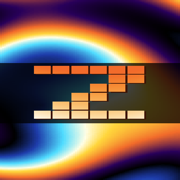
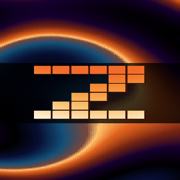
Darker palette, a loading state (LOADING n% until the sound plays, a downloaded bar), brighter title and scroller

diff --git a/index.html b/index.html
@@ -39,7 +39,7 @@
 // up with hard pixels. Parts: plasma, tunnel, vector balls, rotozoomer, switching every 16 s with a flash; a copper-filled pixel
 // logo, a 5x7 bitmap sine scroller. The kick (from the Web Audio analyser) drives flashes, speed and zoom. Tap anywhere: play / pause.
 const a = document.getElementById('a'), tap = document.getElementById('tap'), cv = document.getElementById('c'), g = cv.getContext('2d');
-const Q = new URLSearchParams(location.search), PREVIEW = Q.has('preview'), THUMB = Q.has('thumb'), ICON = Q.has('icon'), TOFF = +(Q.get('t') || 0);
+const Q = new URLSearchParams(location.search), LOADQ = Q.has('loading'), PREVIEW = Q.has('preview'), THUMB = Q.has('thumb'), ICON = Q.has('icon'), TOFF = +(Q.get('t') || 0);
 if (THUMB || ICON) document.getElementById('dl').style.display = 'none';   // still frames for the link preview and the icon
 const calm = window.matchMedia && matchMedia('(prefers-reduced-motion: reduce)').matches;
 let LW = 320, LH = 200, buf, bg, img, px, tunA, tunD, W, H, dpr;
@@ -58,7 +58,8 @@ const rgb = (r, gg, b) => (255 << 24) | ((b & 255) << 16) | ((gg & 255) << 8) | 
 const SIN = new Float32Array(1024); for (let i = 0; i < 1024; i++) SIN[i] = Math.sin(i / 1024 * Math.PI * 2);
 const sn = v => SIN[(v * 162.97 | 0) & 1023];   // fast sine (radians)
 // palette: black, deep violet, the ZUPAKOLLIDA orange, yellow, white, cyan, blue, back to black (256 colours, cycled)
-const PAL = new Uint32Array(256), STOPS = [[0, 0, 0, 0], [40, 40, 0, 90], [90, 242, 107, 43], [130, 255, 214, 60], [150, 255, 255, 230], [180, 80, 220, 255], [220, 30, 60, 170], [256, 0, 0, 0]];
+// darker: mostly black and deep violet, the orange and the white only as highlights
+const PAL = new Uint32Array(256), STOPS = [[0, 0, 0, 0], [55, 22, 0, 48], [95, 120, 38, 18], [125, 226, 100, 30], [140, 255, 196, 110], [150, 120, 70, 60], [180, 20, 80, 120], [220, 8, 14, 50], [256, 0, 0, 0]];
 for (let i = 0; i < 256; i++) { let s = 0; while (STOPS[s + 1][0] <= i) s++; const A = STOPS[s], B = STOPS[s + 1], f = (i - A[0]) / (B[0] - A[0]);
   PAL[i] = rgb(A[1] + (B[1] - A[1]) * f, A[2] + (B[2] - A[2]) * f, A[3] + (B[3] - A[3]) * f); }
 // ---- 5x7 bitmap font ----
@@ -77,7 +78,7 @@ const FONT = {}; ('A 01110100011000111111100011000110001 B 111101000110001111101
  + '. 00000000000000000000000000110001100 , 00000000000000000000011000010001000 ! 00100001000010000100001000000000100 '
  + '- 00000000000000011111000000000000000 * 00000001001010101110101010010000000 : 00000011000110000000011000110000000 '
  + '/ 00001000100001000100010000100010000 ( 00010001000100001000010000010000010 ) 01000001000001000010000100010001000 '
- + "' 01100001000100000000000000000000000").split(' ').reduce((k, v, i, arr) => { if (i % 2 == 0) FONT[v] = arr[i + 1]; return k; }, 0);
+ + "' 01100001000100000000000000000000000 % 11000110010001000100010001001100011").split(' ').reduce((k, v, i, arr) => { if (i % 2 == 0) FONT[v] = arr[i + 1]; return k; }, 0);
 function glyphOn(ch, gx, gy) { const s = FONT[ch]; return s ? s[gy * 5 + gx] === '1' : false; }
 // one string in the font: colour per font row (copper), optional sine wobble per pixel column
 function text(str, x0, y0, sc, col, wob, t) {
@@ -158,17 +159,23 @@ function audioGraph() {
     an = ac.createAnalyser(); an.fftSize = 256; an.smoothingTimeConstant = 0.6; src.connect(an); an.connect(ac.destination); bins = new Uint8Array(an.frequencyBinCount);
   } catch (e) { an = null; }
 }
-function toggle() { audioGraph(); if (a.paused) a.play().catch(() => {}); else a.pause(); }
+let wantPlay = false, stalled = false;
+function toggle() { audioGraph(); if (a.paused) { wantPlay = true; a.play().catch(() => { wantPlay = false; }); } else { wantPlay = false; a.pause(); } }
+a.addEventListener('playing', () => { stalled = false; });
+a.addEventListener('waiting', () => { stalled = true; });
+a.addEventListener('stalled', () => { if (!a.paused) stalled = true; });
+const loading = () => LOADQ || (wantPlay && (a.paused || stalled || a.readyState < 3));
+const bufferedPct = () => { try { return a.duration ? Math.min(100, Math.round(100 * a.buffered.end(a.buffered.length - 1) / a.duration)) : 0; } catch (e) { return 0; } };
 tap.addEventListener('click', toggle);
 addEventListener('keydown', e => { if (e.code === 'Space' || e.code === 'Enter') { e.preventDefault(); toggle(); } });
 a.addEventListener('play', () => tap.setAttribute('aria-label', 'Pause mayafe'));
-a.addEventListener('pause', () => tap.setAttribute('aria-label', 'Play mayafe'));
+a.addEventListener('pause', () => { tap.setAttribute('aria-label', 'Play mayafe'); if (a.ended) wantPlay = false; });
 a.addEventListener('ended', () => { a.currentTime = 0; });
 // ---- the frame ----
 let t0 = performance.now(), last = 0, kick = 0, flash = 0, avgBass = 0, partWas = -1, clock = 0;
 function frame(now) {
   const dt = Math.min(0.05, (now - (last || now)) / 1000); last = now;
-  const playing = !a.paused || PREVIEW || THUMB || ICON;
+  const playing = (!a.paused && !stalled) || PREVIEW || THUMB || ICON;
   clock += dt * (playing ? 1 : 0.25) * (calm ? 0.5 : 1);
   const t = (THUMB || ICON) ? 7.3 + TOFF : clock + TOFF;
   let bass = 0;
@@ -182,12 +189,17 @@ function frame(now) {
   const ly = ICON ? Math.round((LH - 6 * Math.floor((LW * 0.62) / 6)) / 2) : Math.round(LH * 0.05), lh = ICON ? logo('Z', ly, t, Math.round(LW * 0.62)) : logo('ZUPAKOLLIDA', ly, t, LW - 8);
   if (!ICON) {
     const sc = 2, title = 'MAYAFE';
-    text(title, Math.round((LW - title.length * 6 * sc) / 2), ly + lh + 6, sc, (r) => PAL[(140 + r * 4) & 255], 0, t);
-    text(SCROLL, LW - ((t * 34) % (SCROLL.length * 12 + LW)), Math.round(LH * 0.78), 2, (r, X) => PAL[90 + ((r * 7 + X + Math.round(t * 60)) % 60 + 60) % 60], 6, t);   // bright copper only
-    if (a.paused && !PREVIEW && !THUMB && (Math.floor(clock * 2.5) % 2 === 0)) { const m = 'PRESS PLAY', s2 = LW >= 200 ? 2 : 1;
+    text(title, Math.round((LW - title.length * 6 * sc) / 2), ly + lh + 6, sc, (r) => rgb(255, 245 - r * 12, 225 - r * 22), 0, t);
+    text(SCROLL, LW - ((t * 34) % (SCROLL.length * 12 + LW)), Math.round(LH * 0.78), 2, (r, X) => { const f = 0.5 + 0.5 * Math.sin(r * 0.6 + X * 0.05 + t * 3); return rgb(242 + 13 * f, 110 + 130 * f, 40 + 170 * f * f); }, 6, t);   // bright copper only
+    if (loading()) { const dots = '...'.slice(0, 1 + Math.floor(clock * 3) % 3), pc = bufferedPct(), m = 'LOADING' + dots.padEnd(3) + (pc ? ' ' + pc + '%' : ''), s2 = LW >= 200 ? 2 : 1;
+      tap.setAttribute('aria-label', 'Loading mayafe, ' + pc + ' percent');
+      text(m, Math.round((LW - m.length * 6 * s2) / 2), Math.round(LH * 0.5 - 3.5 * s2), s2, () => 0xffffffff, 0, t); }
+    else if (a.paused && !PREVIEW && !THUMB && (Math.floor(clock * 2.5) % 2 === 0)) { const m = 'PRESS PLAY', s2 = LW >= 200 ? 2 : 1;
       text(m, Math.round((LW - m.length * 6 * s2) / 2), Math.round(LH * 0.5 - 3.5 * s2), s2, () => 0xffffffff, 0, t); }
     if (THUMB) { const m = 'A LIVE TAKE - PRESS PLAY'; text(m, Math.round((LW - m.length * 6) / 2), Math.round(LH * 0.66), 1, () => 0xffffffff, 0, t); }
-    if (a.duration && !THUMB) { const w = Math.round(LW * a.currentTime / a.duration); for (let x = 0; x < w; x++) { px[(LH - 2) * LW + x] = PAL[90]; px[(LH - 1) * LW + x] = PAL[90]; } }
+    if (a.duration && !THUMB) { const wb = Math.round(LW * bufferedPct() / 100), w = Math.round(LW * a.currentTime / a.duration);
+      for (let x = 0; x < wb; x++) { px[(LH - 2) * LW + x] = 0xff404040; px[(LH - 1) * LW + x] = 0xff404040; }   // downloaded
+      for (let x = 0; x < w; x++) { px[(LH - 2) * LW + x] = rgb(242, 107, 43); px[(LH - 1) * LW + x] = rgb(242, 107, 43); } }   // played
   }
   if (flash > 0.02) { const f = flash; for (let i = 0; i < px.length; i++) { const c = px[i], r = c & 255, gg = (c >> 8) & 255, b = (c >> 16) & 255;
       px[i] = rgb(r + (255 - r) * f, gg + (255 - gg) * f, b + (255 - b) * f); } flash *= 0.86; }
